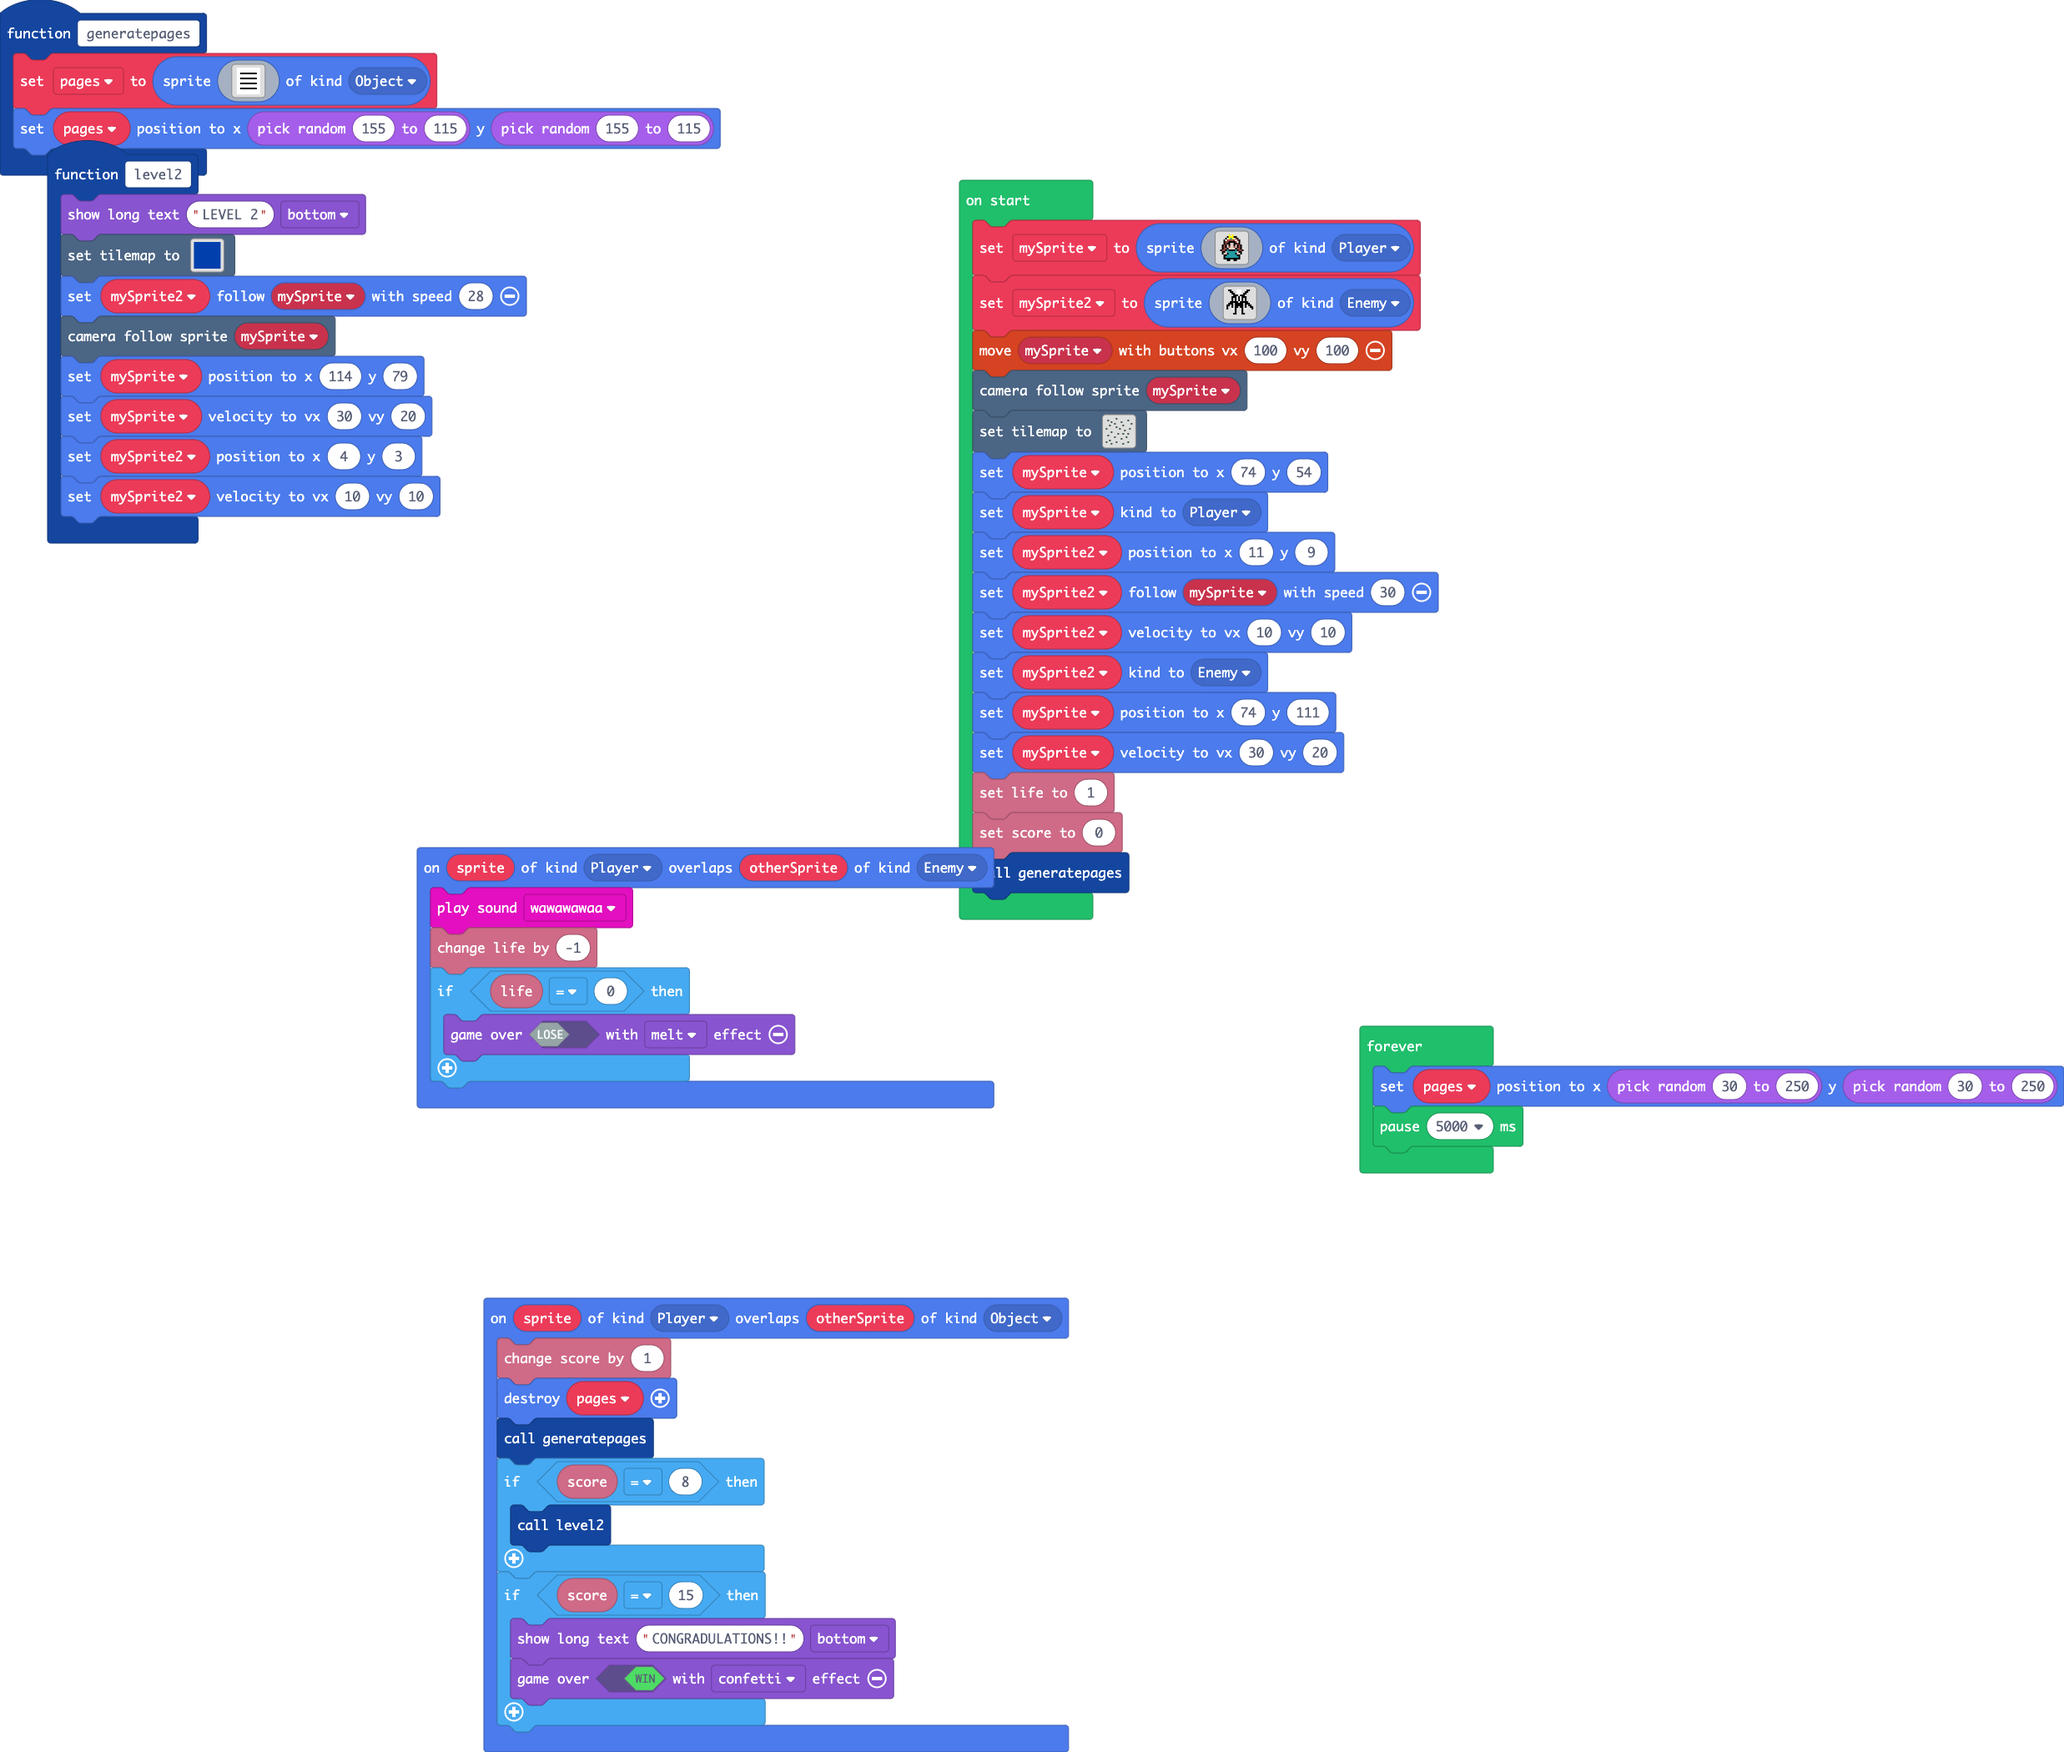
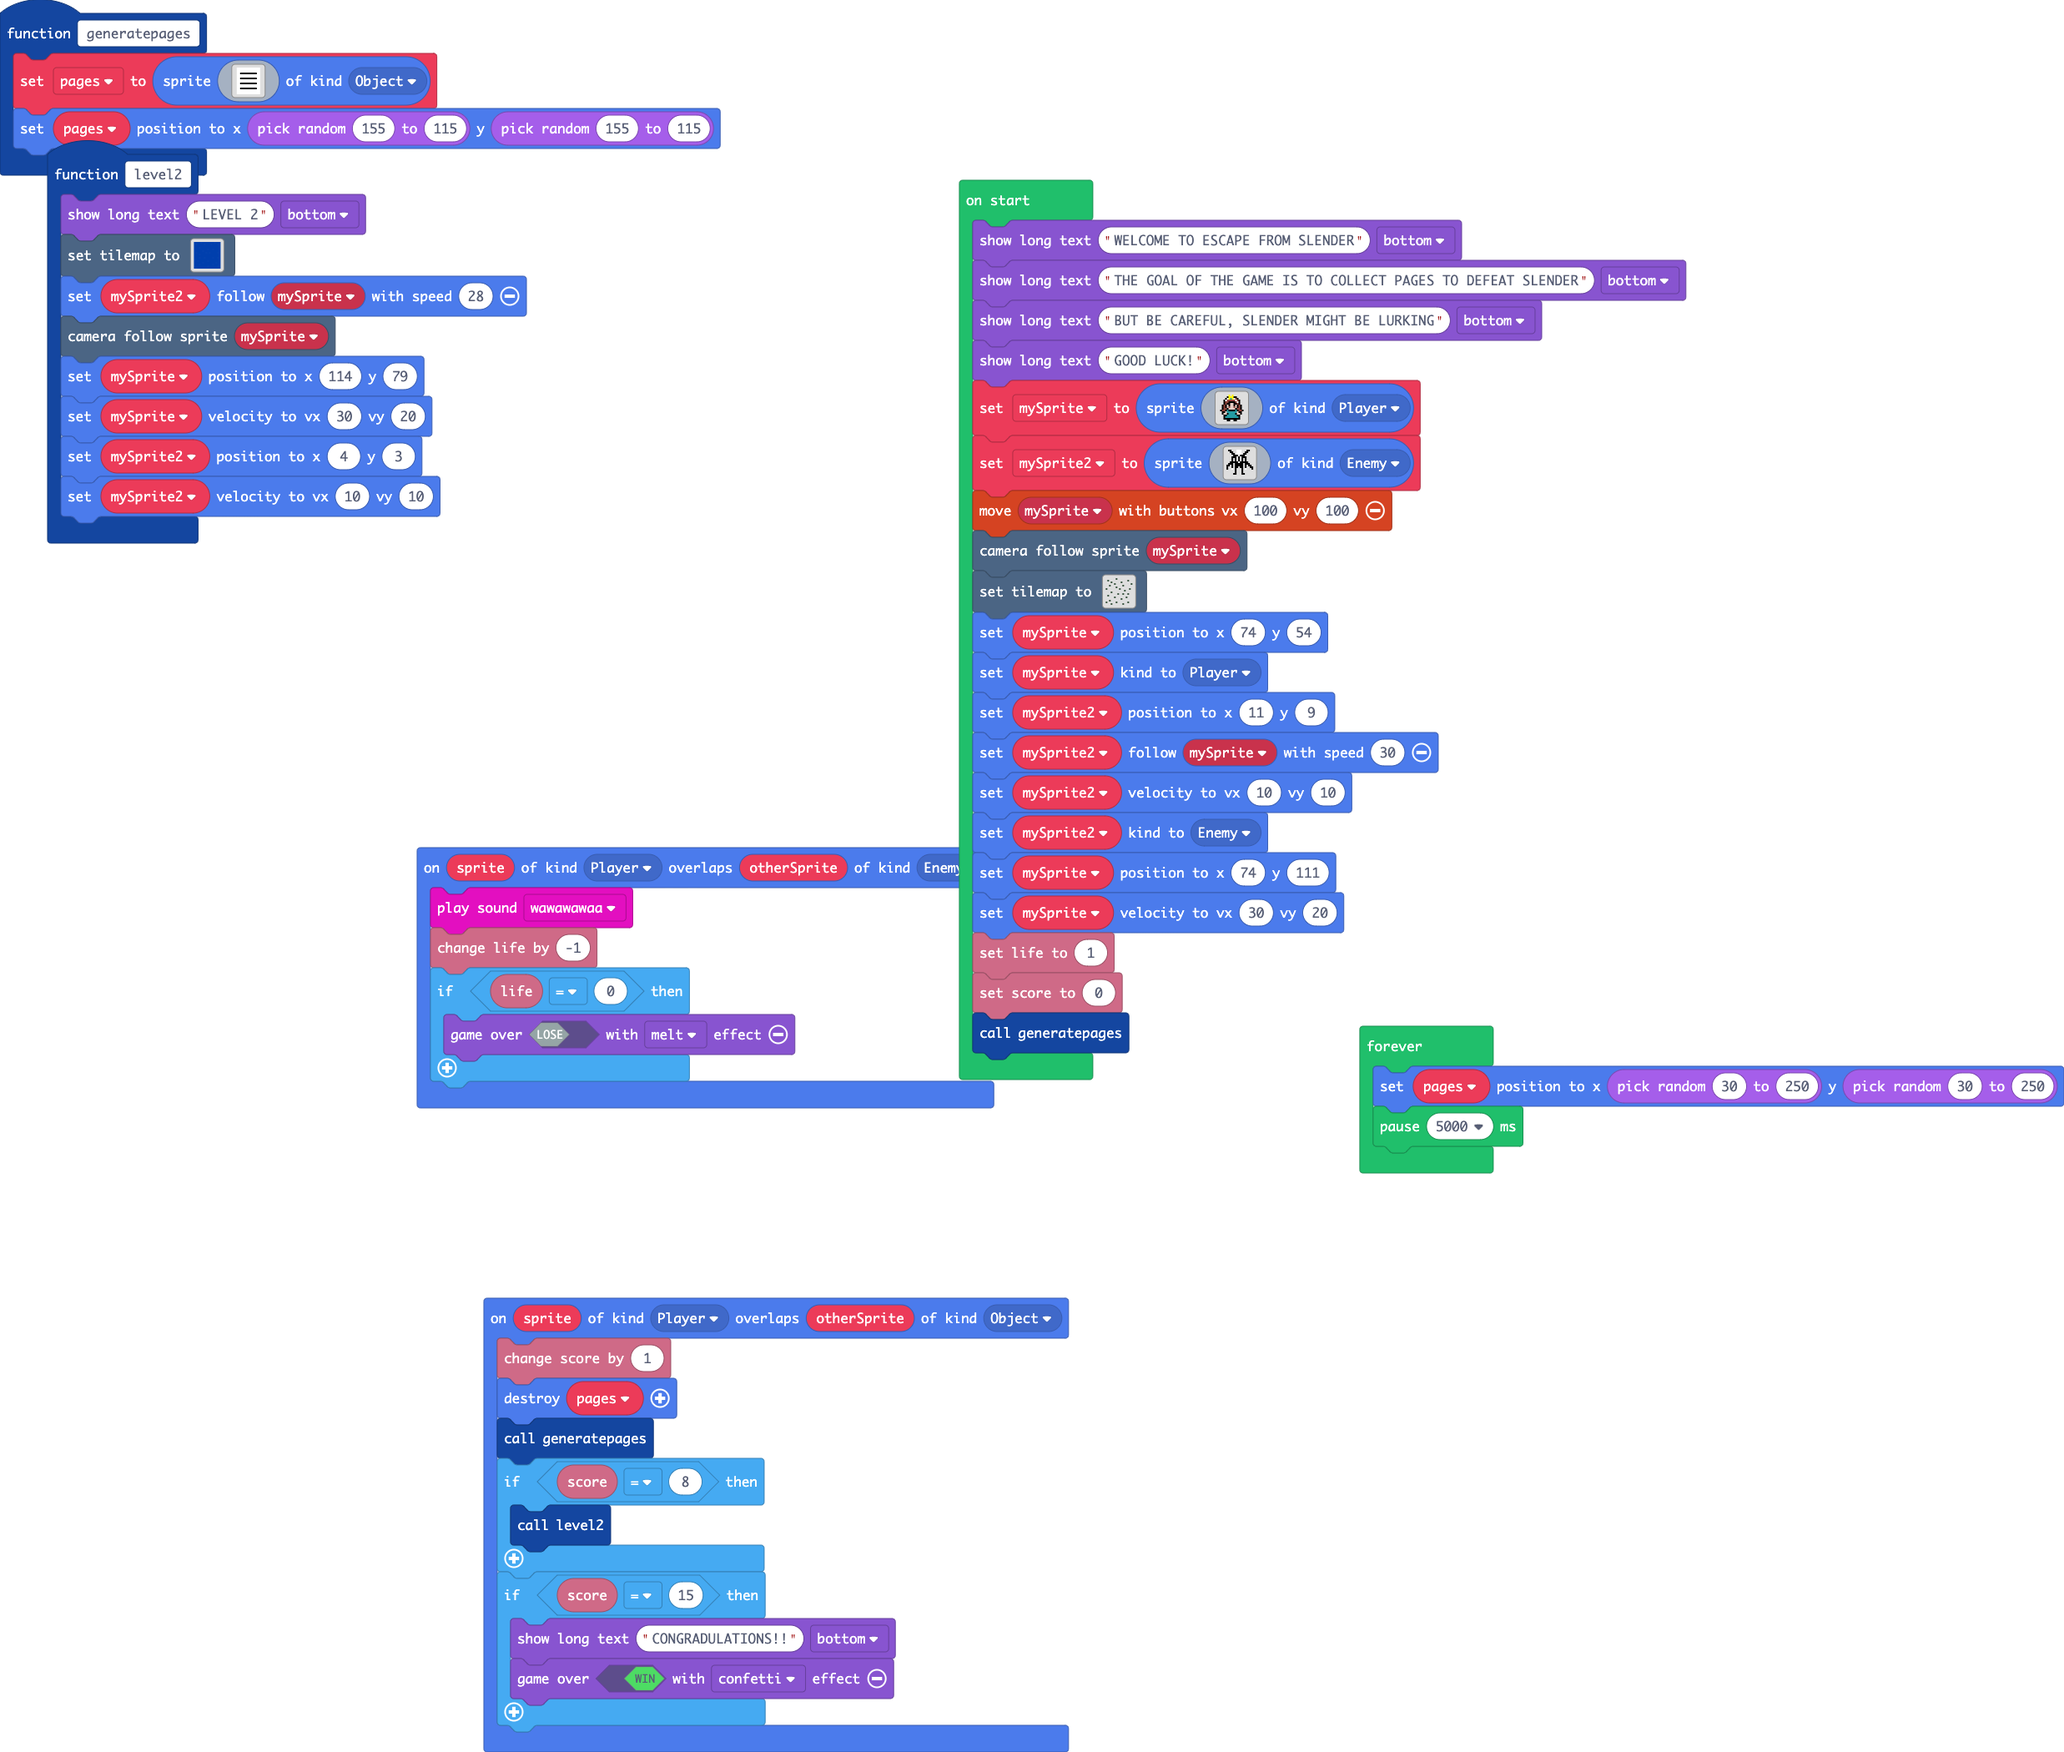
Update main.blocks, main.ts

Changed region(s): [[0.4669, 0.1238, 0.8403, 0.619]]

diff --git a/main.ts b/main.ts
@@ -192,6 +192,10 @@ function generatepages () {
 let pages: Sprite = null
 let mySprite2: Sprite = null
 let mySprite: Sprite = null
+game.showLongText("WELCOME TO ESCAPE FROM SLENDER", DialogLayout.Bottom)
+game.showLongText("THE GOAL OF THE GAME IS TO COLLECT PAGES TO DEFEAT SLENDER", DialogLayout.Bottom)
+game.showLongText("BUT BE CAREFUL, SLENDER MIGHT BE LURKING", DialogLayout.Bottom)
+game.showLongText("GOOD LUCK!", DialogLayout.Bottom)
 mySprite = sprites.create(img`
 . . . . . . 5 . 5 . . . . . . . 
 . . . . . f 5 5 5 f f . . . . . 
